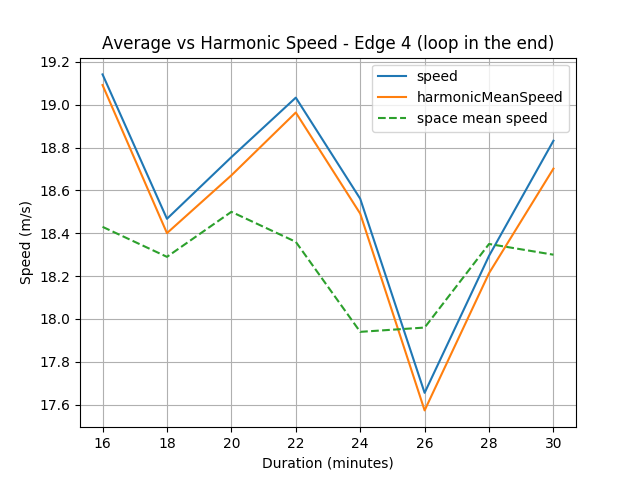
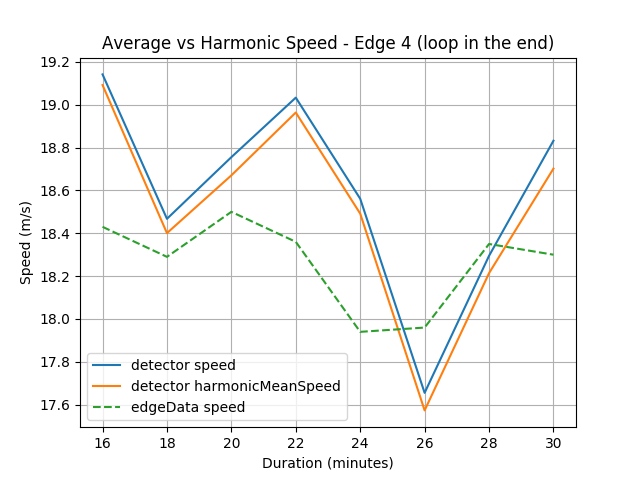
Loop detector: update plots

Changed region(s): [[0.125, 0.75, 0.5312, 0.875], [0.5938, 0.125, 0.9062, 0.2812], [0.4375, 0.8438, 0.4688, 0.875]]

diff --git a/lab3/loop_detector/mean_vs_harmonic_speed.py b/lab3/loop_detector/mean_vs_harmonic_speed.py
@@ -60,13 +60,13 @@ def extractAndPlot(xml, feature):
     #     vals = [v[d] for v in values]
     #label = '{} {}'.format(feature, detectors[d])
 
-    plt.plot(time_range, mean, label=feature)
+    plt.plot(time_range, mean, label='detector ' + feature)
     return time_range
 
 def extractAndPlotMeanSpaceSpeed(xml, xs):
     xml = ET.parse(file2)
     space_mean_speed = fetch_edge_attrs(xml.getroot(), 'link4', ['speed'])['speed']
-    plt.plot(xs, space_mean_speed, label="space mean speed", linestyle='dashed')
+    plt.plot(xs, space_mean_speed, label="edgeData speed", linestyle='dashed')
 
 if __name__ == "__main__":
     file = sys.argv[1]
